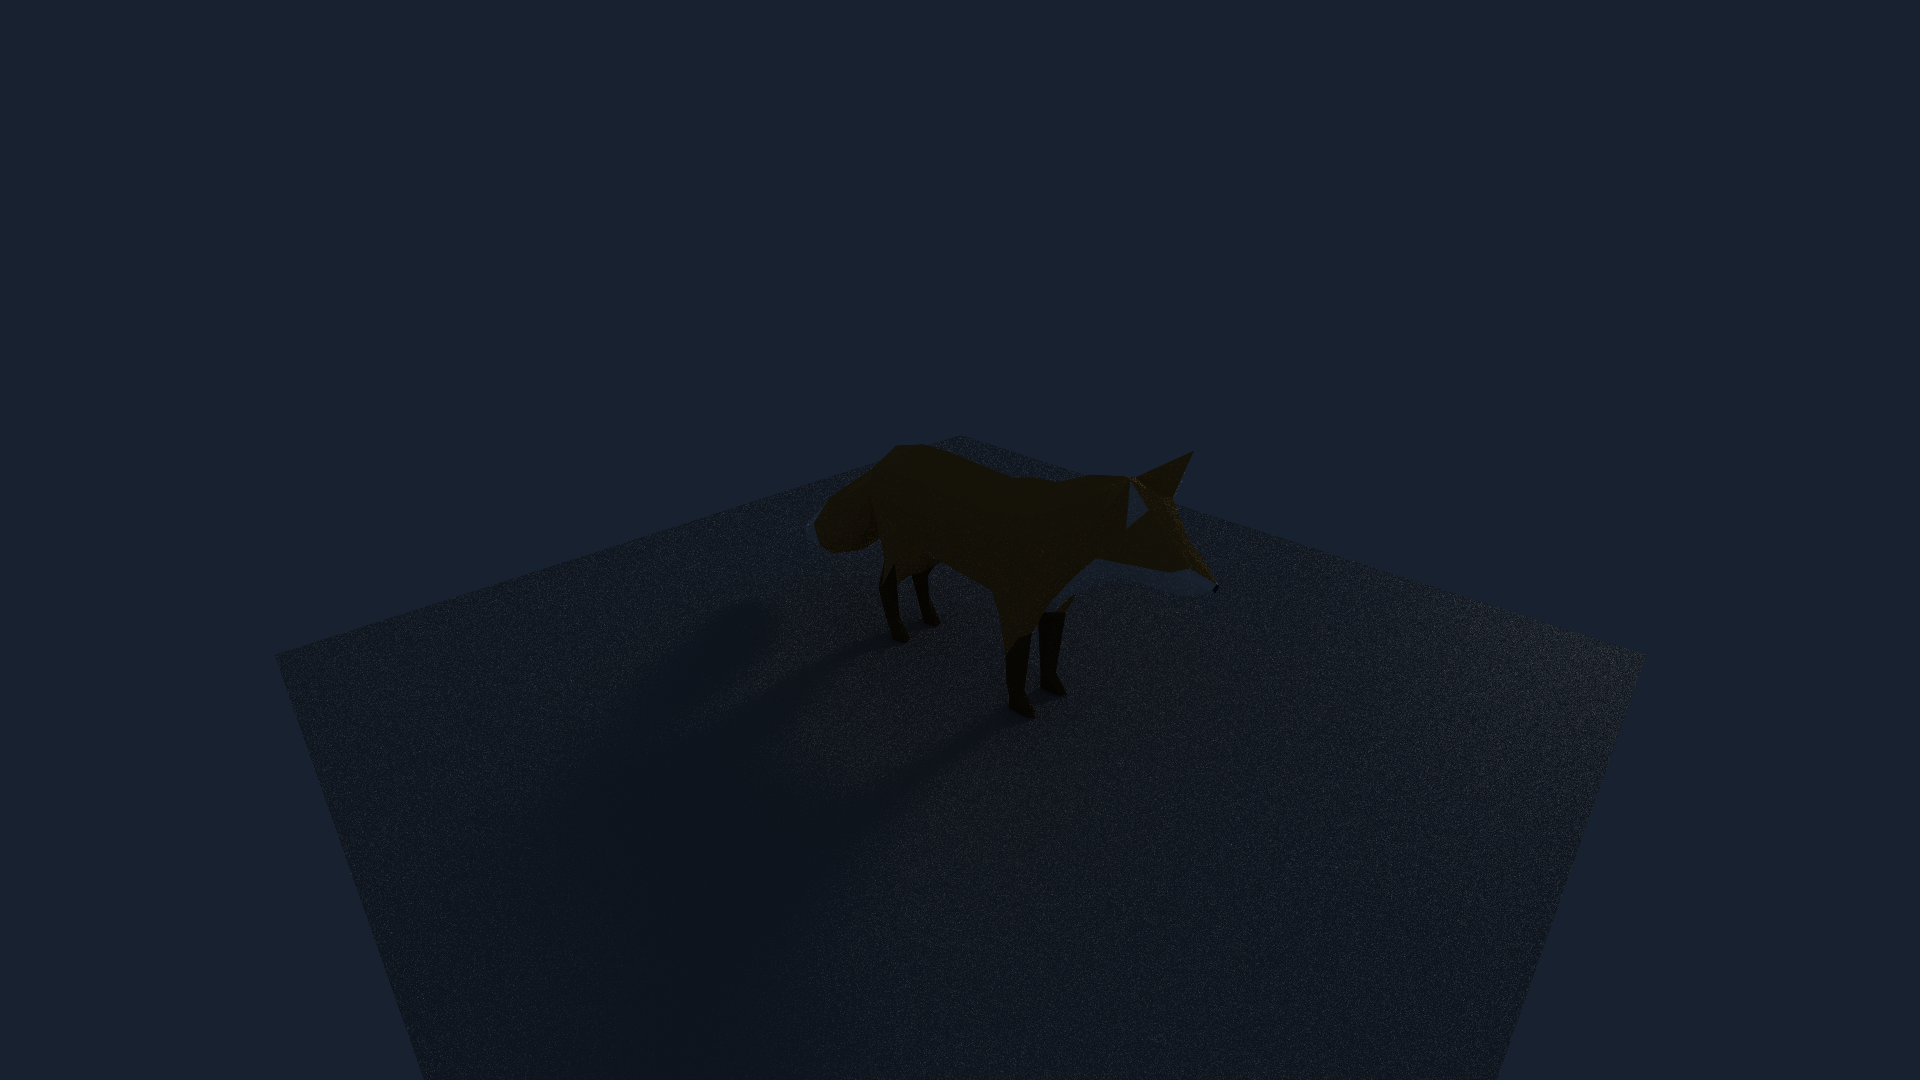
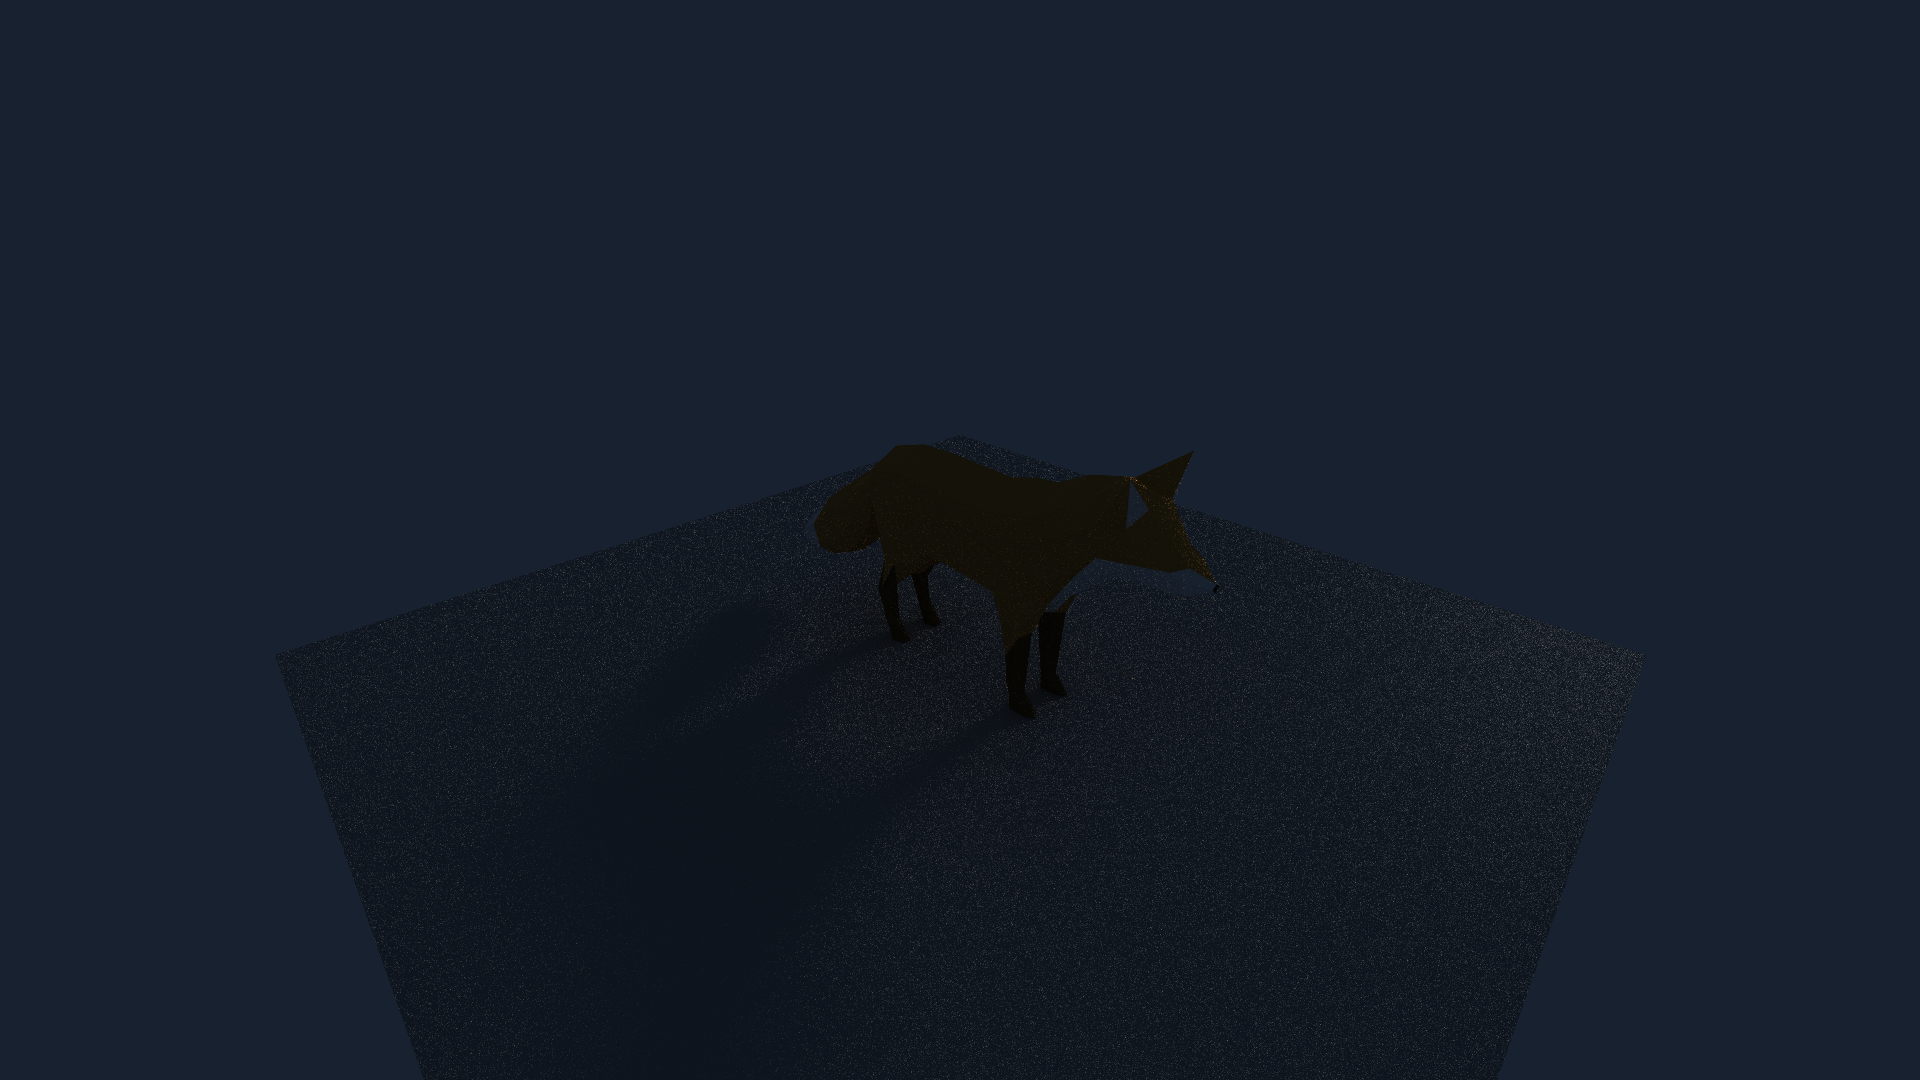
fix(renderer): fix heatmap and separate meshes from transform

Changed region(s): [[0.7812, 0.5806, 0.8438, 0.6722]]

diff --git a/renderer/core/src/scene-loader.cpp b/renderer/core/src/scene-loader.cpp
@@ -172,10 +172,11 @@ void SceneLoader::loadNode(const fastgltf::Node& node, const fastgltf::Asset& as
 
     /* Loading meshes*/
     if (node.meshIndex.has_value()) {
+        Scene::Object object;
         const auto& gltfMesh = asset.meshes[node.meshIndex.value()];
-        Scene::Mesh mesh = loadMesh(gltfMesh, asset);
-        mesh.transform = transform;
-        scene.meshes.push_back(std::move(mesh));
+        object.mesh = loadMesh(gltfMesh, asset);
+        object.transform = transform;
+        scene.objects.push_back(std::move(object));
     }
     for (const auto& child : node.children) {
         loadNode(asset.nodes[child], asset, scene, transform);
@@ -326,9 +327,9 @@ Scene SceneLoader::loadGltf(const fastgltf::Asset& asset) {
         logger.warning("Camera was not found in file. Default camera will be applied");
         glm::vec3 boxMax(-std::numeric_limits<float>::infinity()), boxMin(std::numeric_limits<float>::infinity());
         bool empty = true;
-        for (const auto& mesh : scene.getMeshes()) {
-            for (auto v : mesh.vertices) {
-                v = glm::vec3(mesh.transform * glm::vec4(v, 1.0));
+        for (const auto& object : scene.getObjects()) {
+            for (auto v : object.mesh.vertices) {
+                v = glm::vec3(object.transform * glm::vec4(v, 1.0));
                 empty = false;
                 boxMax = glm::max(boxMax, v);
                 boxMin = glm::min(boxMin, v);
@@ -356,7 +357,7 @@ Scene SceneLoader::loadGltf(const fastgltf::Asset& asset) {
     for (const auto& material : asset.materials) {
         scene.materials.push_back(loadMaterial(material, scene.textures, asset));
     }
-    logger.info(std::format("Scene loaded. Meshes: {}, Materials: {}, Textures: {}", scene.meshes.size(),
+    logger.info(std::format("Scene loaded. Meshes: {}, Materials: {}, Textures: {}", scene.objects.size(),
                             scene.materials.size(), scene.textures.size()));
     return scene;
 }
@@ -364,9 +365,9 @@ Scene SceneLoader::loadGltf(const fastgltf::Asset& asset) {
 void SceneLoader::addPlane(Scene& scene, float planeSize) {
     glm::vec3 boxMax(-std::numeric_limits<float>::infinity()), boxMin(std::numeric_limits<float>::infinity());
     bool empty = true;
-    for (const auto& mesh : scene.getMeshes()) {
-        for (auto v : mesh.vertices) {
-            v = glm::vec3(mesh.transform * glm::vec4(v, 1.0));
+    for (const auto& object : scene.getObjects()) {
+        for (auto v : object.mesh.vertices) {
+            v = glm::vec3(object.transform * glm::vec4(v, 1.0));
             empty = false;
             boxMax = glm::max(boxMax, v);
             boxMin = glm::min(boxMin, v);
@@ -378,13 +379,13 @@ void SceneLoader::addPlane(Scene& scene, float planeSize) {
     } else {
         center = glm::vec3(0, 0, 0);
     }
-    Scene::Mesh planeMesh;
-    planeMesh.transform = glm::mat4(1.0);
-    planeMesh.vertices = {glm::vec3(center.x - planeSize, boxMin.y, center.z + planeSize),
-                          glm::vec3(center.x - planeSize, boxMin.y, center.z - planeSize),
-                          glm::vec3(center.x + planeSize, boxMin.y, center.z - planeSize),
-                          glm::vec3(center.x + planeSize, boxMin.y, center.z + planeSize)};
-    planeMesh.vertexIndices = {3, 1, 0, 2, 1, 3};
+    Scene::Object plane;
+    plane.transform = glm::mat4(1.0);
+    plane.mesh.vertices = {glm::vec3(center.x - planeSize, boxMin.y, center.z + planeSize),
+                           glm::vec3(center.x - planeSize, boxMin.y, center.z - planeSize),
+                           glm::vec3(center.x + planeSize, boxMin.y, center.z - planeSize),
+                           glm::vec3(center.x + planeSize, boxMin.y, center.z + planeSize)};
+    plane.mesh.vertexIndices = {3, 1, 0, 2, 1, 3};
 
     Scene::Mesh::Primitive primitive1, primitive2;
     primitive1.startVertexIndex = 0;
@@ -395,8 +396,8 @@ void SceneLoader::addPlane(Scene& scene, float planeSize) {
     primitive1.materialId = scene.materials.size() - 1;
     primitive2.materialId = scene.materials.size() - 1;
 
-    planeMesh.primitives.push_back(primitive1);
-    planeMesh.primitives.push_back(primitive2);
+    plane.mesh.primitives.push_back(primitive1);
+    plane.mesh.primitives.push_back(primitive2);
 
-    scene.meshes.push_back(planeMesh);
+    scene.objects.push_back(plane);
 }

diff --git a/renderer/core/src/render-engine.cpp b/renderer/core/src/render-engine.cpp
@@ -334,15 +334,15 @@ void RenderEngine::uploadGPUBuffers(const GPUData& gpuData, const BVH& bvh) {
 RenderEngine::GPUData RenderEngine::convertSceneToGPUData(const Scene& scene) {
     logger.debug("Preparing scene data for GPU");
     GPUData data;
-    for (const auto& mesh : scene.getMeshes()) {
+    for (const auto& object : scene.getObjects()) {
         int indexOffset = data.vertices.size();
-        for (const auto& v : mesh.vertices) data.vertices.push_back(mesh.transform * glm::vec4(v, 1.0));
-        for (const auto& uv : mesh.texCoords) data.texCoords.push_back(glm::vec4(uv.x, uv.y, 1.0f, 1.0f));
+        for (const auto& v : object.mesh.vertices) data.vertices.push_back(object.transform * glm::vec4(v, 1.0));
+        for (const auto& uv : object.mesh.texCoords) data.texCoords.push_back(glm::vec4(uv.x, uv.y, 1.0f, 1.0f));
 
-        for (const auto& primitive : mesh.primitives) {
+        for (const auto& primitive : object.mesh.primitives) {
             for (int i = primitive.startVertexIndex; i < primitive.vertexIndicesCount + primitive.startVertexIndex;
                  i++) {
-                data.vertexIndices.push_back(mesh.vertexIndices[i] + indexOffset);
+                data.vertexIndices.push_back(object.mesh.vertexIndices[i] + indexOffset);
             }
             for (int i = 0; i < primitive.vertexIndicesCount / 3; i++) {
                 data.materialIndices.push_back(primitive.materialId);

diff --git a/renderer/core/include/scene.hpp b/renderer/core/include/scene.hpp
@@ -19,10 +19,16 @@ class Scene {
         std::vector<int> vertexIndices;
         std::vector<glm::vec3> vertices;
         std::vector<glm::vec2> texCoords;
-        glm::mat4 transform;
         std::vector<Primitive> primitives;
 
-        Mesh() : transform(glm::mat4(1.0f)) {}
+        Mesh() = default;
+    };
+
+    struct Object {
+        Mesh mesh;
+        glm::mat4 transform;
+
+        Object() : transform(glm::mat4(1.0f)) {}
     };
 
     struct TextureData {
@@ -76,7 +82,7 @@ class Scene {
 
     Camera camera;
     Sun sun;
-    std::vector<Mesh> meshes;
+    std::vector<Object> objects;
     std::vector<Material> materials;
     glm::vec3 backgroundColor;
 
@@ -87,7 +93,7 @@ class Scene {
     Camera getCamera() const noexcept;
     Sun getSun() const noexcept;
     glm::vec3 getBackgroundColor() const noexcept;
-    const std::vector<Mesh>& getMeshes() const noexcept;
+    const std::vector<Object>& getObjects() const noexcept;
     const std::vector<Material>& getMaterials() const noexcept;
     const std::vector<TextureData>& getTexturesData() const noexcept;
     void setCamera(const Camera& camera);

diff --git a/renderer/tests/scene-loader/test-scene-loader.cpp b/renderer/tests/scene-loader/test-scene-loader.cpp
@@ -24,9 +24,10 @@ TEST(SceneLoaderTest, loadSceneCorrectly) {
     EXPECT_NO_THROW(scene = loader.loadGltfFromFile("tests/data/test-scene.glb"));
 
     /* Testing geometry */
-    const auto& meshes = scene.getMeshes();
-    ASSERT_EQ(meshes.size(), 1);
-    const auto& mesh = meshes[0];
+    const auto& objects = scene.getObjects();
+    ASSERT_EQ(objects.size(), 1);
+    const auto& object = objects[0];
+    const auto& mesh = object.mesh;
 
     std::vector<glm::vec3> expectedVertices = {
         glm::vec3(0.5, -0.5, 0.5),  glm::vec3(-0.5, -0.5, 0.5),  glm::vec3(0.5, 0.5, 0.5),
@@ -62,7 +63,7 @@ TEST(SceneLoaderTest, loadSceneCorrectly) {
         {0.9397, 0.6840, 0, 2}, {0, 0, 1, 0}, {0.3420, -1.8794, 0, 0}, {0, 0, 0, 1}};
     for (int i = 0; i < 4; i++) {
         for (int j = 0; j < 4; j++) {
-            EXPECT_NEAR(mesh.transform[i][j], expectedTransform[j][i], 0.001);
+            EXPECT_NEAR(object.transform[i][j], expectedTransform[j][i], 0.001);
         }
     }
 

diff --git a/renderer/core/src/scene.cpp b/renderer/core/src/scene.cpp
@@ -5,7 +5,7 @@ Scene::Scene() : backgroundColor(0.0f, 0.0f, 0.0f) {}
 Scene::Camera Scene::getCamera() const noexcept { return camera; }
 glm::vec3 Scene::getBackgroundColor() const noexcept { return backgroundColor; }
 Scene::Sun Scene::getSun() const noexcept { return sun; }
-const std::vector<Scene::Mesh>& Scene::getMeshes() const noexcept { return meshes; }
+const std::vector<Scene::Object>& Scene::getObjects() const noexcept { return objects; }
 const std::vector<Scene::Material>& Scene::getMaterials() const noexcept { return materials; }
 const std::vector<Scene::TextureData>& Scene::getTexturesData() const noexcept { return textures; }
 void Scene::setCamera(const Scene::Camera& camera) { this->camera = camera; }

diff --git a/renderer/README.md b/renderer/README.md
@@ -19,7 +19,7 @@
 
 ---
 
-## Diagnostics (1920x1080, 500 samples)
+## Diagnostics (1920x1080, 128 samples)
 
 <table>
   <tr>
